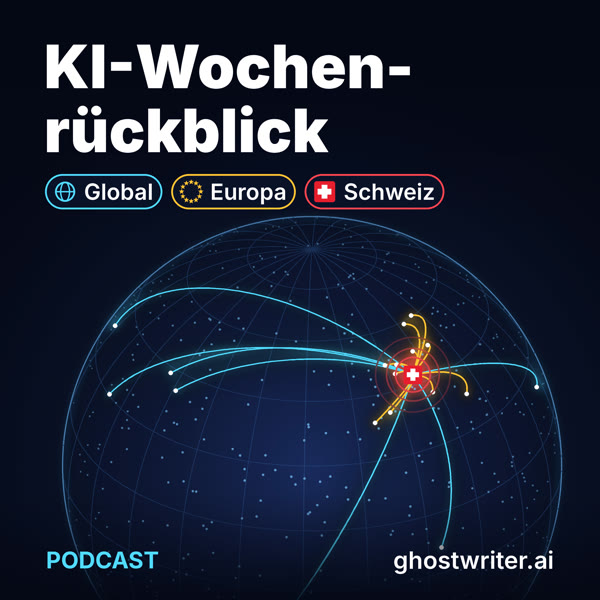
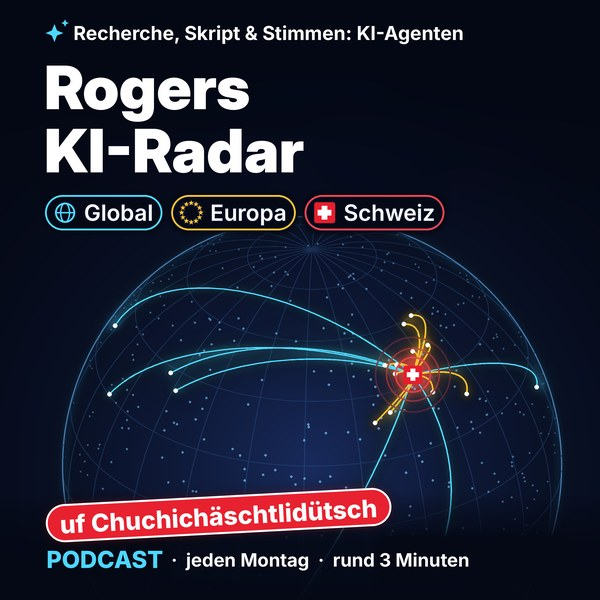
Podcast: neues Cover und Name «Rogers KI-Radar»
Cover: KI-Agenten-Hinweis oben, Titel «Rogers KI-Radar», Sticker
«uf Chuchichäschtlidütsch», unten «jeden Montag · rund 3 Minuten».
Name in show.yaml, Feed und Webseite angeglichen.

Claude-Session: https://claude.ai/code/session_017buHk1SAw8ahXG7BQueWiy

diff --git a/docs/podcast/index.html b/docs/podcast/index.html
@@ -3,7 +3,7 @@
 <head>
 <meta charset="utf-8">
 <meta name="viewport" content="width=device-width, initial-scale=1">
-<title>Rogers 3-Minuten-KI-Radar – Podcast abonnieren</title>
+<title>Rogers KI-Radar – Podcast abonnieren</title>
 <link rel="preconnect" href="https://fonts.googleapis.com">
 <link href="https://fonts.googleapis.com/css2?family=Fraunces:opsz,wght@9..144,600;9..144,700&family=Inter:wght@400;500;600&family=JetBrains+Mono:wght@500&display=swap" rel="stylesheet">
 <style>
@@ -101,10 +101,10 @@ footer{margin-top:56px;font-size:13px;color:var(--muted);border-top:1px solid va
 <body>
 <main>
   <div class="hero">
-    <img src="cover-web.jpg" width="600" height="600" alt="Cover: KI-Wochenrückblick – Global, Europa, Schweiz">
+    <img src="cover-web.jpg" width="600" height="600" alt="Cover: Rogers KI-Radar – Global, Europa, Schweiz, uf Chuchichäschtlidütsch, jeden Montag, rund 3 Minuten">
     <div class="txt">
       <div class="kicker"><span class="radar" aria-hidden="true"></span>Podcast · jeden Montag</div>
-      <h1>Rogers 3-Minuten-KI-Radar</h1>
+      <h1>Rogers KI-Radar</h1>
     </div>
   </div>
   <p class="lead">Die wichtigsten KI-News der Woche – Global, Europa, Schweiz – in rund drei Minuten, auf Berndeutsch. Kostenlos: Hör auf Spotify rein oder abonniere den Podcast direkt über seinen RSS-Feed in jeder anderen Podcast-App.</p>
@@ -262,7 +262,7 @@ footer{margin-top:56px;font-size:13px;color:var(--muted);border-top:1px solid va
     <p>Schreib mir am einfachsten eine Nachricht auf <a id="linkedin" href="https://www.linkedin.com/search/results/people/?keywords=Roger%20Infanger%20Weibel">LinkedIn</a> – oder sag es mir direkt, wenn wir uns sehen.</p>
   </div>
 
-  <footer>Rogers 3-Minuten-KI-Radar · von mir, Roger Infanger Weibel · Recherche und Skript mit Claude, Stimmen mit Gemini TTS · <a href="https://github.com/roger-infanger-weibel/ghostwriter.ai">Quellcode auf GitHub</a></footer>
+  <footer>Rogers KI-Radar · von mir, Roger Infanger Weibel · Recherche und Skript mit Claude, Stimmen mit Gemini TTS · <a href="https://github.com/roger-infanger-weibel/ghostwriter.ai">Quellcode auf GitHub</a></footer>
 </main>
 
 <script>

diff --git a/docs/index.html b/docs/index.html
@@ -3,13 +3,13 @@
 <head>
 <meta charset="utf-8">
 <meta name="viewport" content="width=device-width, initial-scale=1">
-<title>Rogers 3-Minuten-KI-Radar</title>
+<title>Rogers KI-Radar</title>
 <meta http-equiv="refresh" content="0; url=podcast/">
 <link rel="canonical" href="https://roger-infanger-weibel.github.io/ghostwriter.ai/podcast/">
 <script>location.replace('podcast/' + location.hash);</script>
 <style>body{font:16px/1.6 system-ui,sans-serif;max-width:600px;margin:80px auto;padding:0 20px;color:#1c1b19}a{color:#d2442f}</style>
 </head>
 <body>
-<p>Weiter zu <a href="podcast/">Rogers 3-Minuten-KI-Radar</a> …</p>
+<p>Weiter zu <a href="podcast/">Rogers KI-Radar</a> …</p>
 </body>
 </html>
